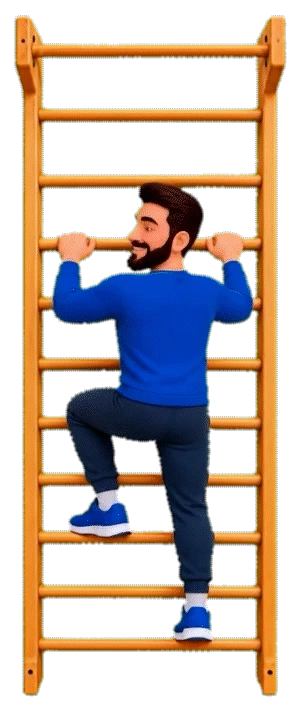
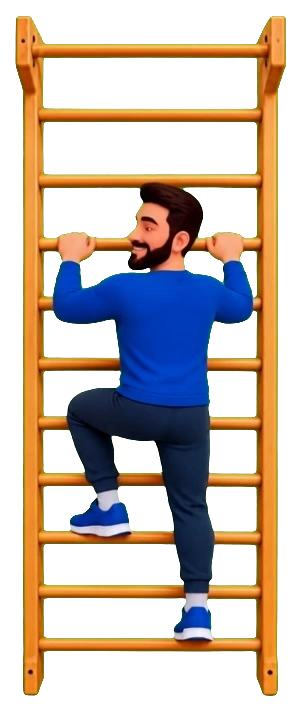
Values ladder climber from the green-screen MP4: full colour, soft keyed edges (2.2MB)

diff --git a/_tools/ladder-key.html b/_tools/ladder-key.html
@@ -1,0 +1,69 @@
+<!DOCTYPE html>
+<html><head><meta charset="utf-8"><title>ladder climb (green screen) → WebP</title></head>
+<body>
+<pre id="log"></pre>
+<canvas id="peek" width="300" height="720" style="background:#456"></canvas>
+<script>
+/* Dev tool (not part of the lomda): "סרטון אדם מטפס על סולם.mp4" (_src/ladder-climb.mp4, 1280×720, 25fps, green screen)
+   → the values-ladder climber in full colour with soft edges. Every frame is cropped to the ladder, the green keyed out
+   (soft alpha from how much greener than red/blue a pixel is, plus despill on the edges) and encoded as WebP with alpha.
+   Output (PUT to /_out/): lclimb-0..4.webp – the rest positions; lclimb-seg1..4.webp – the climbs between them, played once. */
+const log = m => (document.getElementById("log").textContent += m + "\n");
+const fourcc = s => [...s].map(c => c.charCodeAt(0));
+const u24 = v => [v & 255, (v >> 8) & 255, (v >> 16) & 255];
+const u32 = v => [v & 255, (v >> 8) & 255, (v >> 16) & 255, (v >>> 24) & 255];
+function chunk(tag, data) { const out = new Uint8Array(8 + data.length + (data.length & 1)); out.set(fourcc(tag), 0); out.set(u32(data.length), 4); out.set(data, 8); return out; }
+function concat(parts) { const n = parts.reduce((s, p) => s + p.length, 0), out = new Uint8Array(n); let o = 0; for (const p of parts) { out.set(p, o); o += p.length; } return out; }
+function frameChunks(buf) {
+  const b = new Uint8Array(buf), parts = [];
+  for (let o = 12; o + 8 <= b.length;) {
+    const tag = String.fromCharCode(b[o], b[o + 1], b[o + 2], b[o + 3]);
+    const size = b[o + 4] | (b[o + 5] << 8) | (b[o + 6] << 16) | (b[o + 7] << 24), total = 8 + size + (size & 1);
+    if (tag === "ALPH" || tag === "VP8 " || tag === "VP8L") parts.push(b.slice(o, o + total));
+    o += total;
+  }
+  return concat(parts);
+}
+const CROP = { x: 496, y: 0, w: 300, h: 720 }, FPS = 25, CUTS = [0, 42, 66, 93, 125];   // the frames where Adam rests
+const K0 = 22, K1 = 60;            // greenness (G − max(R,B)): ≤ K0 opaque, ≥ K1 transparent, soft in between
+function key(g) {
+  const { w: W, h: H } = CROP, id = g.getImageData(0, 0, W, H), d = id.data;
+  for (let i = 0; i < d.length; i += 4) {
+    const r = d[i], gg = d[i + 1], b = d[i + 2], m = Math.max(r, b), gr = gg - m;
+    const a = gr <= K0 ? 1 : gr >= K1 ? 0 : 1 - (gr - K0) / (K1 - K0);
+    if (gg > m) d[i + 1] = m;                                            // despill: no pixel greener than its red/blue
+    d[i + 3] = Math.round(255 * a);
+  }
+  g.putImageData(id, 0, 0);
+}
+async function run(quality = 0.9) {
+  const blob = await (await fetch("/_src/ladder-climb.mp4", { cache: "no-store" })).blob();
+  const v = document.createElement("video"); v.muted = true; v.src = URL.createObjectURL(blob);
+  await new Promise(r => v.addEventListener("loadeddata", r, { once: true }));
+  const cv = new OffscreenCanvas(CROP.w, CROP.h), g = cv.getContext("2d", { willReadFrequently: true });
+  const peek = document.getElementById("peek").getContext("2d");
+  const frames = [], dur = 1000 / FPS;
+  for (let i = 0; i <= CUTS[CUTS.length - 1]; i++) {
+    await new Promise(r => { v.onseeked = r; v.currentTime = Math.min(v.duration - 0.001, (i + 0.5) / FPS); });
+    g.clearRect(0, 0, CROP.w, CROP.h); g.drawImage(v, CROP.x, CROP.y, CROP.w, CROP.h, 0, 0, CROP.w, CROP.h);
+    key(g);
+    peek.clearRect(0, 0, CROP.w, CROP.h); peek.drawImage(cv, 0, 0);
+    frames.push(frameChunks(await (await cv.convertToBlob({ type: "image/webp", quality })).arrayBuffer()));
+    const k = CUTS.indexOf(i);
+    if (k >= 0) { const r = await fetch(`/_out/lclimb-${k}.webp`, { method: "PUT", body: await cv.convertToBlob({ type: "image/webp", quality: .95 }) }); log(`lclimb-${k}.webp (${r.status})`); }
+  }
+  for (let k = 1; k < CUTS.length; k++) {
+    const fr = frames.slice(CUTS[k - 1], CUTS[k] + 1);
+    const anmf = fr.map(f => chunk("ANMF", concat([new Uint8Array([...u24(0), ...u24(0), ...u24(CROP.w - 1), ...u24(CROP.h - 1), ...u24(dur), 0x02]), f])));
+    const vp8x = chunk("VP8X", new Uint8Array([0x12, 0, 0, 0, ...u24(CROP.w - 1), ...u24(CROP.h - 1)]));
+    const anim = chunk("ANIM", new Uint8Array([0, 0, 0, 0, 1, 0]));                 // loop count 1: played once
+    const body = concat([new Uint8Array(fourcc("WEBP")), vp8x, anim, ...anmf]);
+    const file = concat([new Uint8Array(fourcc("RIFF")), new Uint8Array(u32(body.length)), body]);
+    const r = await fetch(`/_out/lclimb-seg${k}.webp`, { method: "PUT", body: file });
+    log(`lclimb-seg${k}.webp ${fr.length} frames ${fr.length * dur}ms ${(file.length / 1024).toFixed(0)}KB (${r.status})`);
+  }
+  document.title = "DONE";
+}
+window.addEventListener("load", run);
+</script>
+</body></html>

diff --git a/js/app.js b/js/app.js
@@ -577,8 +577,8 @@
     { n: 4, name: "הצבעים", go: "l4-intro", quiz: "l4-quiz" }
   ];
   const stagesDone = () => STAGES.filter(st => isDone(st.quiz)).length;
-  // Adam on the ladder: "סרטון אדם מטפס על סולם רקע שקוף.gif" (1280×720, transparent) cut at the frames where he rests –
-  // cropped to the ladder and re-encoded as WebP with soft edges (_tools/ladder-webp.html): lclimb-0..4.webp are the five
+  // Adam on the ladder: "סרטון אדם מטפס על סולם.mp4" (1280×720, green screen) cut at the frames where he rests –
+  // cropped to the ladder, the green keyed out with soft edges, as WebP (_tools/ladder-key.html): lclimb-0..4.webp are the five
   // rest positions (bottom → top), lclimb-seg1..4.webp the climbs between them (played once).
   // A stage's screens show him where the previous stages brought him: opening + stage 1 = 0, stage 2 = 1 … ; finishing
   // stage k plays seg k and leaves him at position k (4 = the top, also on the summary).

diff --git a/css/currency.css b/css/currency.css
@@ -788,7 +788,7 @@
 .ex-fig.ex-flip { scale: -1 1; }
 .sum-bonus { margin-top: 4px; font-size: 15px; font-weight: 700; color: var(--teal); }
 
-/* values ladder: Adam climbing (lclimb-*.webp: the GIF cropped to the ladder, 300×720, shown ×0.72) – the ladder part
+/* values ladder: Adam climbing (lclimb-*.webp: the green-screen video keyed and cropped to the ladder, 300×720, shown ×0.72) – the ladder part
    of the canvas is shown; the ladder stands at x ≈ 10–206 of the .ladder box, its top at stage y ≈ 160 */
 .ladder-anim { position: absolute; left: 0; top: 0; width: 216px; height: 560px; overflow: hidden; pointer-events: none; }
 .ladder-anim .ladder-img { position: absolute; left: 0; top: 38px; width: 216px; height: 518px; max-width: none; transition: none; animation: none; filter: drop-shadow(0 10px 12px rgba(0,0,0,.35)); }
